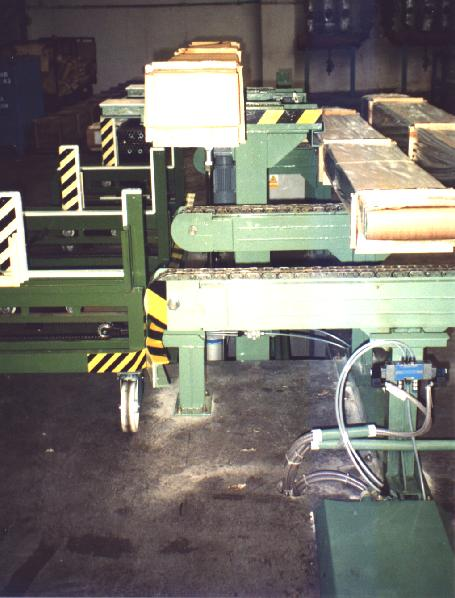
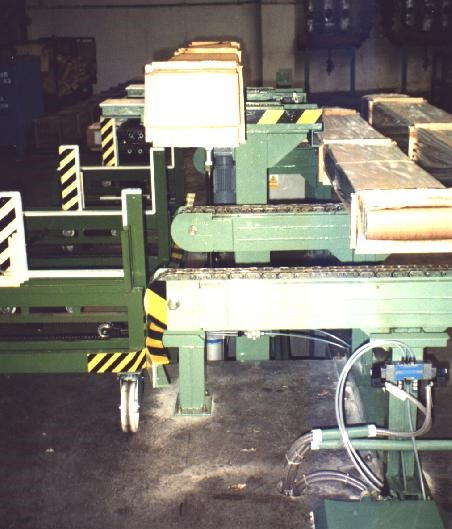
changed some gaps betwen txt and pic

diff --git a/atyp_manipul_zarizeni.html b/atyp_manipul_zarizeni.html
@@ -97,19 +97,20 @@
 
         <h5><strong>Atypická manipulační zařízení</strong></h5>
         <div class="row">
-            <div class="col-md-6 col-sm-10 mt-3">
-                <p>Dodáváme atypická zařízení, která plní různé úkoly, podle zadání zákazníka. Mohou to být různá přesýpací zařízení, točny, podavače, sušící a máčecí linky.<br>Provedení je buď pro normální prostředí nebo do výbušného prostředí pro lakovny. </p>
-
-                <div class="card box-shadow mt-2">
-                    <img class="card img-fluid" alt="prekladani baliku z voziku na zasobnik" src="prekladani_baliku.jpg">
+            <div class="col-md-6">
+                <div class="mt-txt mb-txt pr-obr">
+                    <p>Dodáváme atypická zařízení, která plní různé úkoly, podle zadání zákazníka. Mohou to být různá přesýpací zařízení, točny, podavače, sušící a máčecí linky.<br>Provedení je buď pro normální prostředí nebo do výbušného prostředí pro lakovny. </p>
+                </div>
+                <div class="pt-3">
+                    <img class="img-fluid" alt="prekladani baliku z voziku na zasobnik" src="prekladani_baliku.jpg">
                 </div>
             </div>
             <div class="col-md-6 col-sm-10">
-                <div class="card box-shadow ">
-                    <img class="card img-fluid" alt="přesýpací zařízení na bedýnky" src="presypaci_zarizeni_na_bedynky.jpg">
+                <div class="">
+                    <img class="img-fluid" alt="přesýpací zařízení na bedýnky" src="presypaci_zarizeni_na_bedynky.jpg">
                 </div>
-                <div class="card box-shadow mt-4">
-                    <img class="card img-fluid" alt="tocna s kladkostrojkovou tocnou" src="tocna_s_kladkostrojkovou_tocnou.jpg">
+                <div class="mb-obr mt-4">
+                    <img class="img-fluid" alt="tocna s kladkostrojkovou tocnou" src="tocna_s_kladkostrojkovou_tocnou.jpg">
                 </div>
             </div>
         </div>

diff --git a/karusel_d_a_regaly.html b/karusel_d_a_regaly.html
@@ -93,13 +93,13 @@
                 </div>
             </div>
         </div>
-
         <h5><strong>Karuselové dopravníky a regály horizontální i vertikalní</strong></h5>
         <div class="row">
-            <div class="col-md-7 mt-3">
-                <p>Karusely jsou vhodné pro horizontální nebo vertikální skladování a technologickou dopravu. Jsou tiché a nenáročné na údržbu. Jejich pohyb může být plynulý s měnitelnou rychlostí nebo taktovaný, kdy břemena stojí na pracovištích a v zadaném taktu přejíždějí z jednoho na druhé. Mohou být automatizované, kdy řídící systém představí požadovaný regál na požadované místo. Tyto regály mohou významě urychlit kompletování zakázek z více různých položek.</p>
+            <div class="col-md-8">
+                <div class="mt-txt mb-txt pr-obr">
+                    <p>Karusely jsou vhodné pro horizontální nebo vertikální skladování a technologickou dopravu. Jsou tiché a nenáročné na údržbu. Jejich pohyb může být plynulý s měnitelnou rychlostí nebo taktovaný, kdy břemena stojí na pracovištích a v zadaném taktu přejíždějí z jednoho na druhé. Mohou být automatizované, kdy řídící systém představí požadovaný regál na požadované místo. Tyto regály mohou významě urychlit kompletování zakázek z více různých položek.</p>
+                </div>
             </div>
-            <div class="col-md-1"></div>
             <div class="col-md-4 mb-5">
                 <img class="img-fluid" alt="zdvižné plosiny" src="kartusel_d.jpg">
             </div>

diff --git a/retezove_a_latkove.html b/retezove_a_latkove.html
@@ -107,11 +107,11 @@
         <div class="row">
             <div class="col-md-8">
                 <div class="mt-txt mb-txt pr-obr">
-                    <p>Řetězy moho být propojeny laťkami nebo specielními nosníky na přesné uložení břemen.</p>
+                    <p>Řetězy mohou být propojeny laťkami nebo specielními nosníky na přesné uložení břemen.</p>
                 </div>
             </div>
             <div class="col-md-4">
-                <img class="img-fluid mt-5" alt="Válečkové a pásové dopravníky" src="latkovy_obr.jpg">
+                <img class="img-fluid mt-5 mb-5" alt="Válečkové a pásové dopravníky" src="latkovy_obr.jpg">
             </div>
         </div>
 

diff --git a/balici_a_expedic_linky.html b/balici_a_expedic_linky.html
@@ -104,8 +104,8 @@
                 </div>
             </div>
             <div class="col-md-5">
-                <div class="card mt-4 box-shadow ">
-                    <img class="card img-fluid" alt="balici linka na hlinikove profily" src="balici_a_exped_link.jpg">
+                <div class="">
+                    <img class="img-fluid" alt="balici linka na hlinikove profily" src="balici_a_exped_link.jpg">
                 </div>
             </div>
         </div>

diff --git a/atypicke_jeraby.html b/atypicke_jeraby.html
@@ -105,9 +105,7 @@
                 </div>
             </div>
             <div class="col-md-6 col-sm-10">
-                <div class="card box-shadow ">
-                    <img class="card img-fluid" alt="zdvižné plosiny" src="atypicke_jeraby.jpg">
-                </div>
+                <img class="img-fluid" alt="zdvižné plosiny" src="atypicke_jeraby.jpg">
             </div>
         </div>
 

diff --git a/valeckove_a_pasove.html b/valeckove_a_pasove.html
@@ -114,7 +114,7 @@
                 </div>
             </div>
             <div class="col-md-4">
-                <img class="card-img-top img-fluid mt-4 mb-4" alt="Válečkové a pásové dopravníky" src="pasove_obr.jpg">
+                <img class="img-fluid mt-4 mb-4" alt="Válečkové a pásové dopravníky" src="pasove_obr.jpg">
             </div>
         </div>
 

diff --git a/nahradni_retezy_atd.html b/nahradni_retezy_atd.html
@@ -244,7 +244,7 @@
                 </div>
                 <div class="col-lg-1"></div>
                 <div class="col-md-4">
-                    <img class="img-fluid" alt="náš dopravník" src="nahradni_retez.jpg">
+                    <img class="img-fluid mb-5" alt="náš dopravník" src="nahradni_retez.jpg">
                 </div>
             </div>
 

diff --git a/zdvizne_plosiny.html b/zdvizne_plosiny.html
@@ -105,7 +105,7 @@
                 </div>
             </div>
             <div class="col-md-4">
-                <img class="img-fluid" alt="zdvižné plosiny" src="plosina.jpg">
+                <img class="img-fluid mb-5" alt="zdvižné plosiny" src="plosina.jpg">
             </div>
         </div>
 
